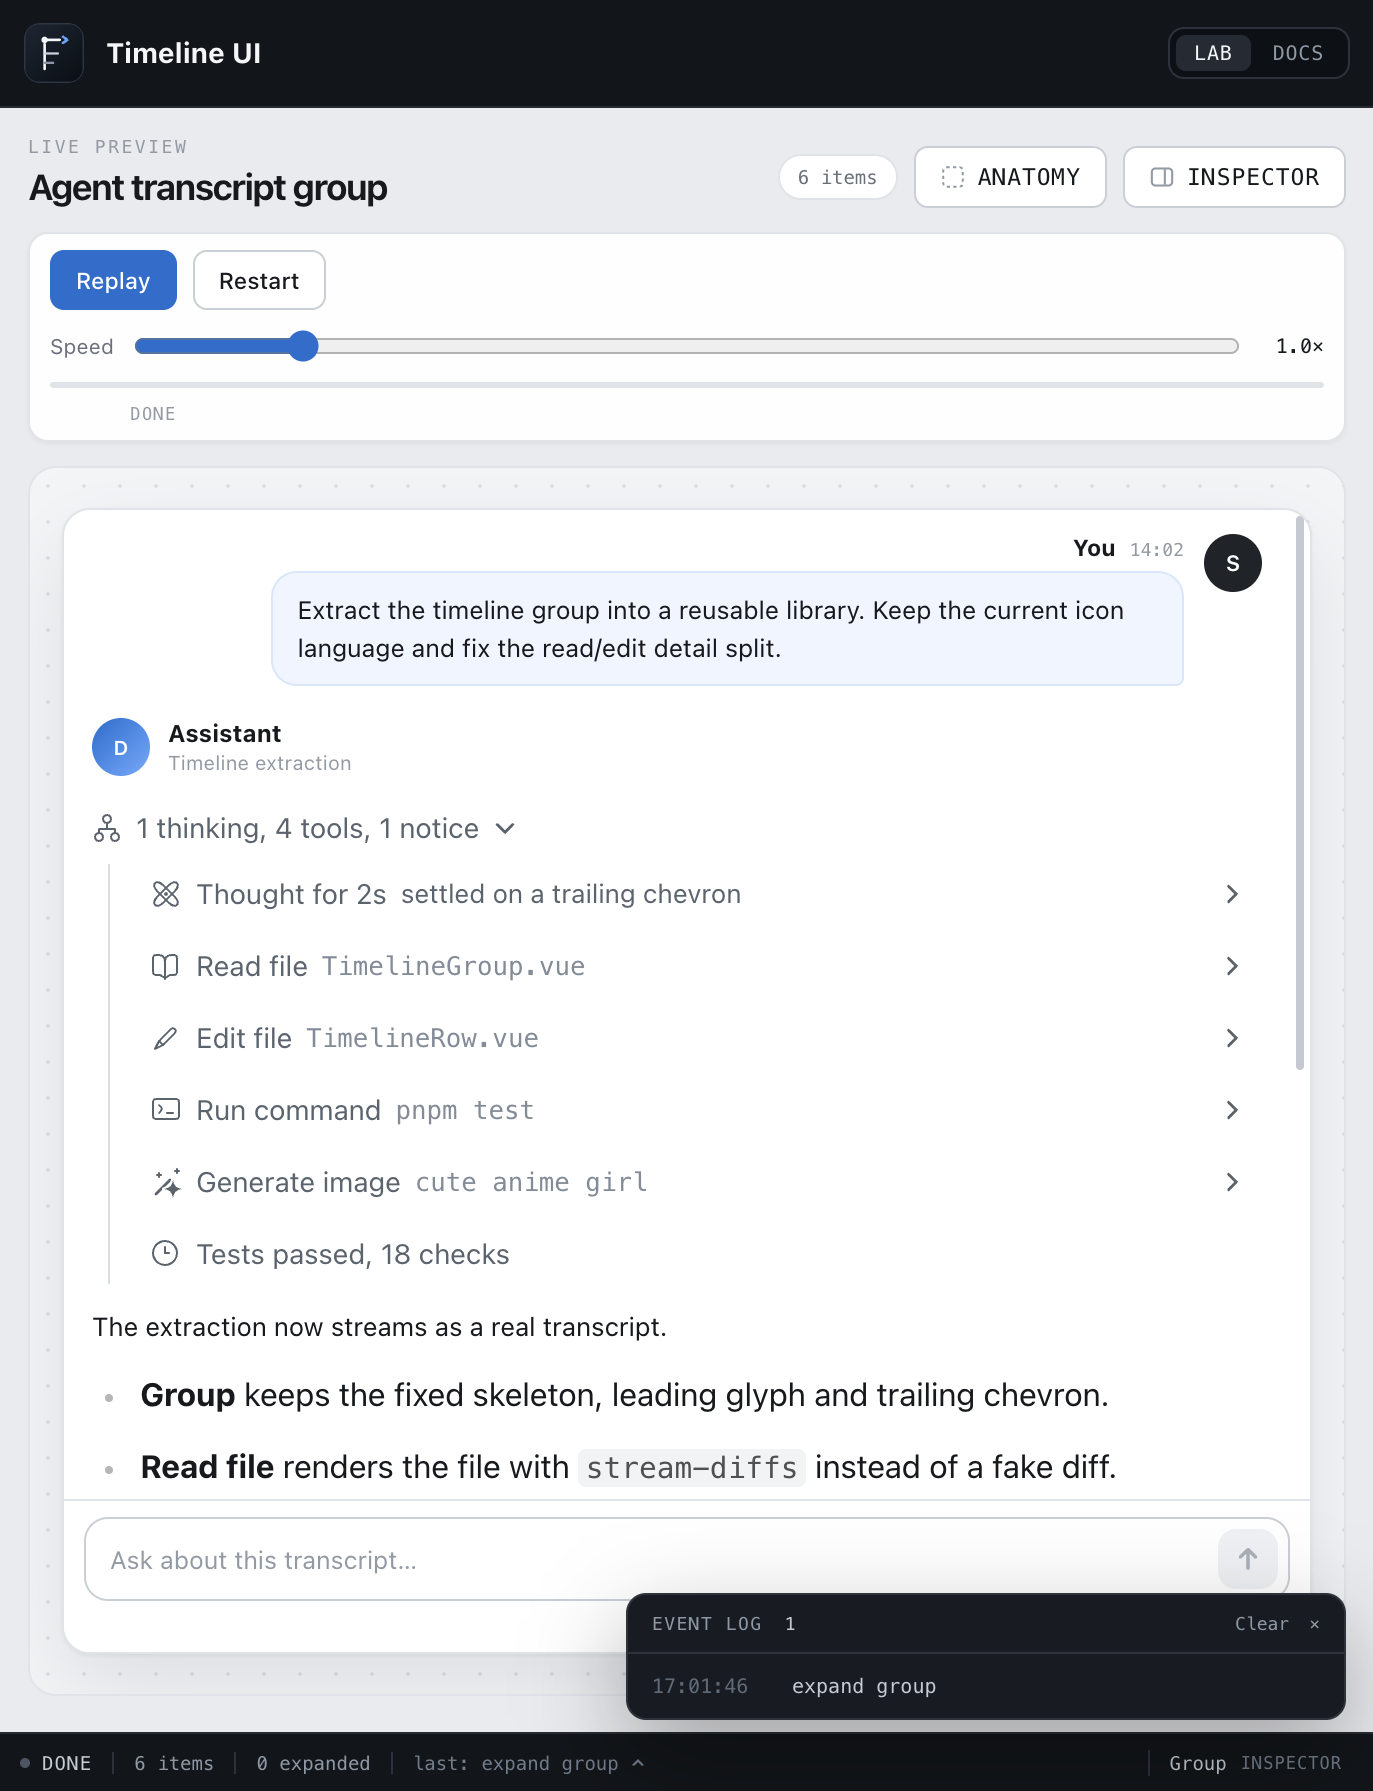
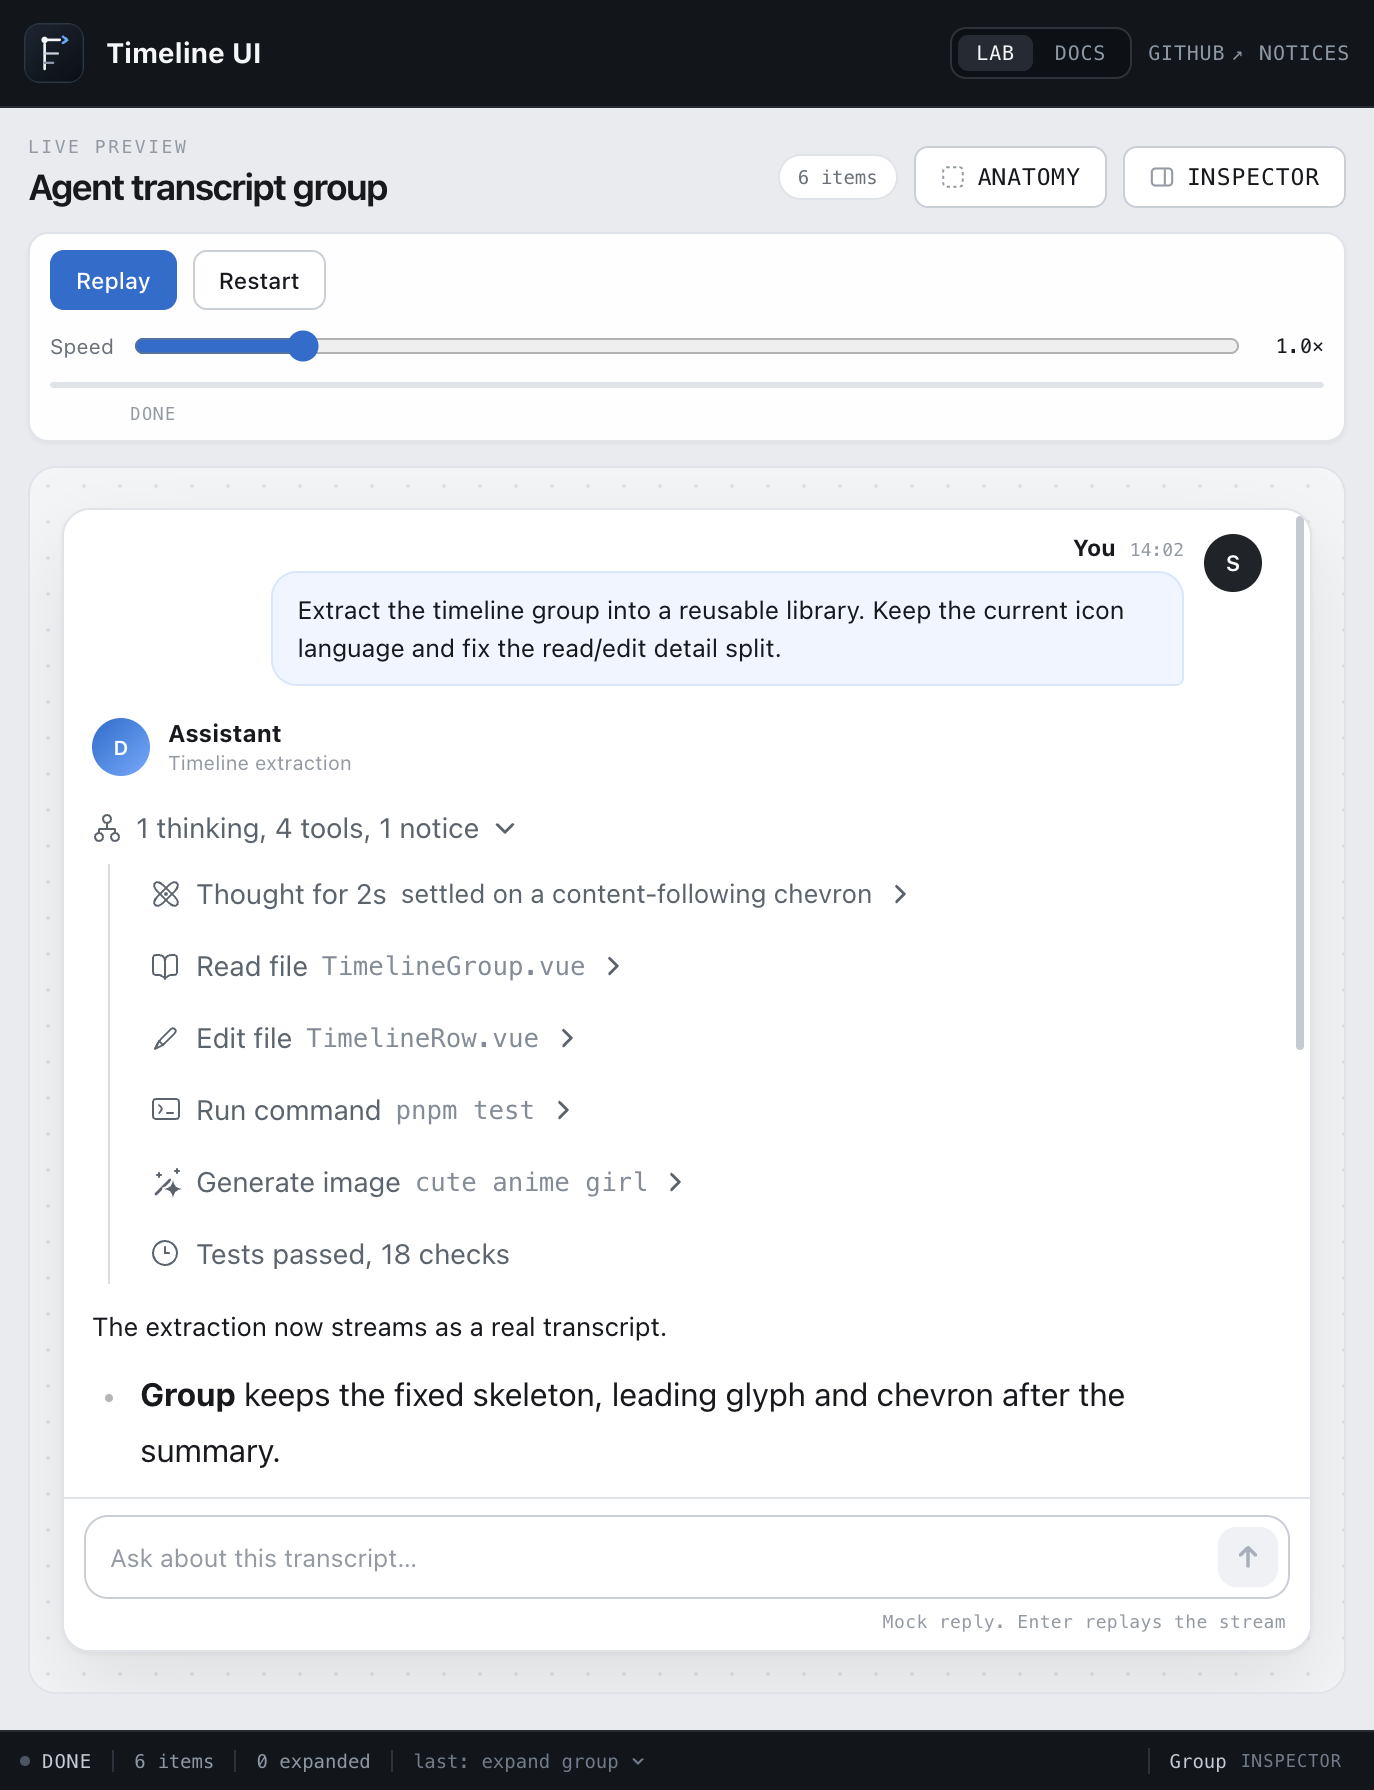
Keep row chevrons after the row content

diff --git a/src/playground/docs/UsageDocs.vue b/src/playground/docs/UsageDocs.vue
@@ -66,7 +66,7 @@
           <div class="docs__principles">
             <article>
               <strong>Fixed skeleton</strong>
-              <p>The group header, row grid, rail and chevrons stay in place. Tokens change the skin, not the structure.</p>
+              <p>The group header, row header, rail and chevrons stay in place. Tokens change the skin, not the structure.</p>
             </article>
             <article>
               <strong>No product coupling</strong>
@@ -106,7 +106,7 @@
           <h3>Layout contract</h3>
           <ul class="docs__list">
             <li>The group header reads icon, summary, chevron. The chevron follows the summary instead of being pushed to the edge.</li>
-            <li>Rows read icon, label, optional primary parameter and an expandable trailing chevron.</li>
+            <li>Rows read icon, label, optional primary parameter and an expandable chevron that follows the row content.</li>
             <li>The rail starts below the group header, aligns with the group icon center by default and is clipped by the reveal.</li>
             <li>Details share the row edge. The shell is transparent; the host panel owns its surface.</li>
             <li>The summary slot can change the summary content. The group and row skeleton cannot be replaced.</li>

diff --git a/src/playground/mock-chat/mockData.ts b/src/playground/mock-chat/mockData.ts
@@ -4,11 +4,11 @@ export const THINKING_TEXT = `I’m checking the extracted row against the curre
 
 1. The leading chevron consumes a column and breaks icon alignment.
 2. The group already has a leading status glyph; rows should start with the tool icon.
-3. Move the chevron to the trailing edge and pass status into the icon component.`
+3. Move the chevron after the row content and pass status into the icon component.`
 
 export const ASSISTANT_MARKDOWN = `The extraction now streams as a real transcript.
 
-- **Group** keeps the fixed skeleton, leading glyph and trailing chevron.
+- **Group** keeps the fixed skeleton, leading glyph and chevron after the summary.
 - **Read file** renders the file with \`stream-diffs\` instead of a fake diff.
 - **Edit file** renders a real unified diff.
 - **Generate image** paints the image result in a host card.
@@ -127,7 +127,7 @@ export const EDIT_DIFF = {
 
 export const COMMAND_LINES = [
   '✓ 8 tests passed',
-  '  ✓ keeps the expand chevron trailing',
+  '  ✓ keeps the expand chevron after content',
   '  ✓ passes status to group and item icons',
   '  ✓ paints the loading shell before content',
   '✓ built in 1.42s',

diff --git a/src/lib/styles/timeline.css b/src/lib/styles/timeline.css
@@ -142,8 +142,7 @@
   }
 
   .timeline-ui .tl-row__header {
-    display: grid;
-    grid-template-columns: var(--timeline-ui-icon-size) auto minmax(0, 1fr);
+    display: flex;
     gap: var(--timeline-ui-row-gap);
     align-items: center;
     width: 100%;
@@ -156,10 +155,6 @@
     font: inherit;
     line-height: inherit;
     text-align: left;
-  }
-
-  .timeline-ui .tl-row.is-expandable .tl-row__header {
-    grid-template-columns: var(--timeline-ui-icon-size) auto minmax(0, 1fr) var(--timeline-ui-chevron-size);
   }
 
   .timeline-ui .tl-row.is-interactive .tl-row__header {
@@ -179,6 +174,7 @@
 
   .timeline-ui .tl-row__icon {
     display: inline-flex;
+    flex: none;
     width: var(--timeline-ui-icon-size);
     height: var(--timeline-ui-icon-size);
     align-items: center;
@@ -194,6 +190,7 @@
 
   .timeline-ui .tl-row__label {
     min-width: 0;
+    flex: 0 1 auto;
     overflow: hidden;
     color: var(--timeline-ui-muted);
     text-overflow: ellipsis;
@@ -202,6 +199,7 @@
 
   .timeline-ui .tl-row__primary {
     min-width: 0;
+    flex: 0 1 auto;
     overflow: hidden;
     color: var(--timeline-ui-faint);
     font-family: var(--timeline-ui-font-mono);

diff --git a/src/playground/mock-chat/useMockChat.ts b/src/playground/mock-chat/useMockChat.ts
@@ -243,7 +243,7 @@ export function useMockChat() {
         if (index === Math.floor(thinkingChunks.length * 0.35)) {
           thinking.primary = 'checking chevron and icon alignment…'
         } else if (index === Math.floor(thinkingChunks.length * 0.7)) {
-          thinking.primary = 'drafting the trailing-chevron change…'
+          thinking.primary = 'drafting the inline-chevron change…'
         }
       })
       at += CHUNK_INTERVAL_MS
@@ -253,7 +253,7 @@ export function useMockChat() {
     add(at, () => {
       thinking.status = 'complete'
       thinking.label = 'Thought for 2s'
-      thinking.primary = 'settled on a trailing chevron'
+      thinking.primary = 'settled on a content-following chevron'
       const detail = thinking.detail
       if (detail?.props) detail.props.loading = false
       syncSummary()

diff --git a/src/playground/App.vue b/src/playground/App.vue
@@ -356,7 +356,7 @@
           <section class="panel panel--muted">
             <h3>How this maps</h3>
             <p class="hint">
-              Every row uses the same grid: icon, label, primary parameter, trailing chevron.
+              Every row uses the same header: icon, label, primary parameter, chevron that follows the content.
               Only the icon component and detail component are swapped by data.
             </p>
             <pre class="snippet"><CodeText :code="ITEM_MAPPING_SNIPPET" language="ts" /></pre>

diff --git a/test/timeline.test.ts b/test/timeline.test.ts
@@ -111,7 +111,7 @@ describe('TimelineGroup', () => {
     expect(wrapper.find('.tl-details__shell').exists()).toBe(true)
   })
 
-  it('keeps the expand chevron trailing so icons and chevrons share columns', () => {
+  it('keeps the expand chevron after the header content', () => {
     const wrapper = mount(TimelineGroup, { props: { group: makeGroup() } })
 
     const groupHeader = wrapper.find('.tl-group__header').element

diff --git a/src/lib/components/TimelineRow.vue b/src/lib/components/TimelineRow.vue
@@ -20,7 +20,7 @@
         <component :is="iconComponent" :status="item.status" />
       </span>
       <span class="tl-row__label">{{ item.label }}</span>
-      <span class="tl-row__primary">{{ item.primary ?? '' }}</span>
+      <span v-if="item.primary" class="tl-row__primary">{{ item.primary }}</span>
       <TimelineChevron v-if="hasDetails" />
     </component>
 
